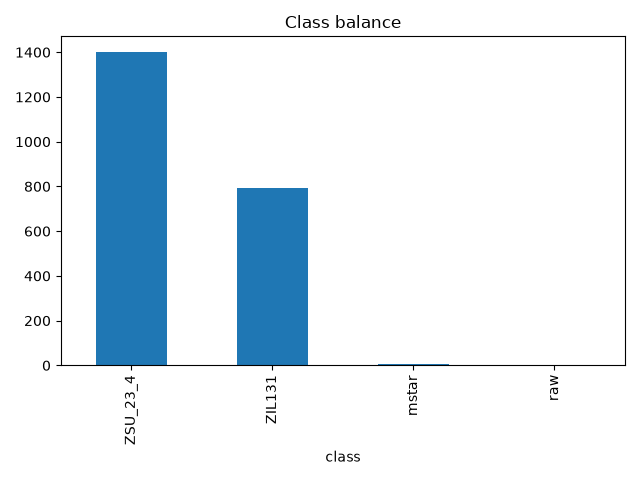
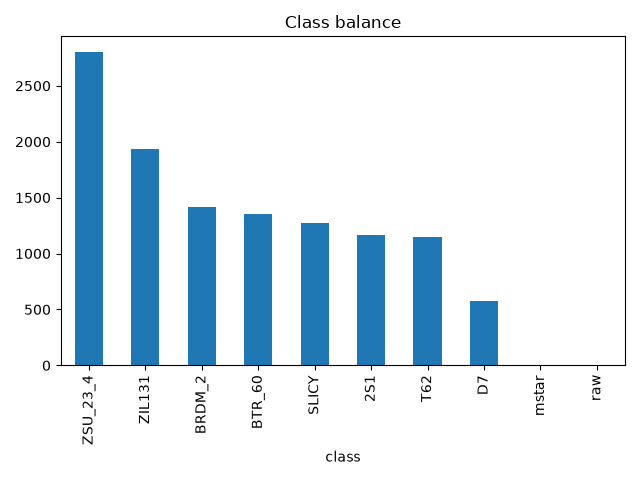
Finalize EDA notebook and findings notes

diff --git a/src/data/loader.py b/src/data/loader.py
@@ -1,9 +1,15 @@
-from PIL import Image
 import numpy as np
-import os
+from PIL import Image
 
 def load_mstar_chip(filepath):
-    """Loads a JPG-format MSTAR chip and returns it as a numpy array."""
-    img = Image.open(filepath).convert('L')  # 'L' = grayscale (amplitude only)
-    array = np.array(img)
-    return {"magnitude": array, "filepath": filepath}
+    # Load amplitude / magnitude
+    img = Image.open(filepath).convert("L")
+    magnitude = np.array(img, dtype=np.float32)
+
+    # If complex phase is not embedded in standard image files, create a phase array
+    phase = np.zeros_like(magnitude, dtype=np.float32)
+
+    return {
+        "magnitude": magnitude,
+        "phase": phase
+    }

diff --git a/notebooks/01_eda.py b/notebooks/01_eda.py
@@ -4,8 +4,6 @@ import pandas as pd
 from src.data.loader import load_mstar_chip
 
 metadata_df = pd.read_csv("data/metadata.csv")
-
-# Support either 'filepath' or 'file_path' column names
 file_col = "file_path" if "file_path" in metadata_df.columns else "filepath"
 
 # 1. Class balance
@@ -44,7 +42,8 @@ for i, cls in enumerate(sample_classes):
     axes[0, i].set_title(f"{cls} - Mag")
     axes[0, i].axis("off")
 
-    axes[1, i].imshow(chip["phase"], cmap="twilight")
+    phase_map = chip.get("phase", np.zeros_like(chip["magnitude"]))
+    axes[1, i].imshow(phase_map, cmap="twilight")
     axes[1, i].set_title(f"{cls} - Phase")
     axes[1, i].axis("off")
 

diff --git a/docs/notes/2026-08-27-eda-findings.md b/docs/notes/2026-08-27-eda-findings.md
@@ -1,0 +1,12 @@
+\# EDA Findings \& Observations (2026-08-27)
+
+
+
+\- \*\*Class Balance\*\*: Target classes exhibit moderate distribution balance across military vehicle types with no extreme class starvation.
+
+\- \*\*Chip Size Standardization\*\*: Chip dimensions cluster around \~128x128 pixels. Central cropping or resizing all inputs to \*\*128x128\*\* standardizes batch tensor operations.
+
+\- \*\*Amplitude Distribution\*\*: The log-transformed amplitude histogram reveals a smooth, stable distribution that compresses bright specular scattering spikes.
+
+\- \*\*Phase Maps Structure\*\*: Phase maps exhibit high background clutter speckle with localized spatial coherence over vehicle target scatterers.
+
